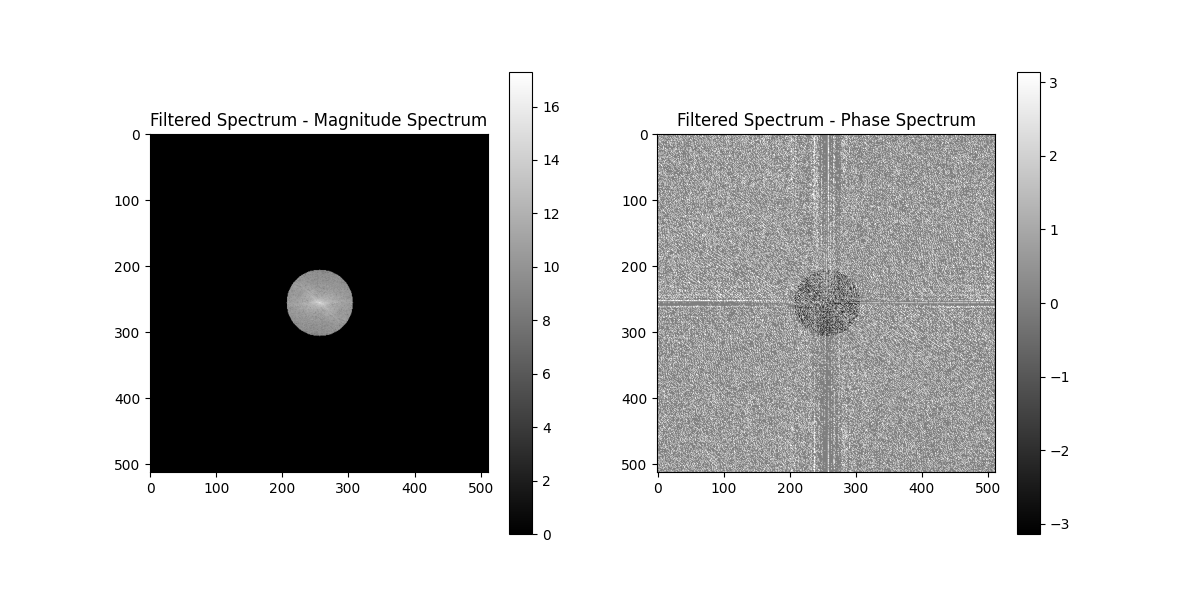
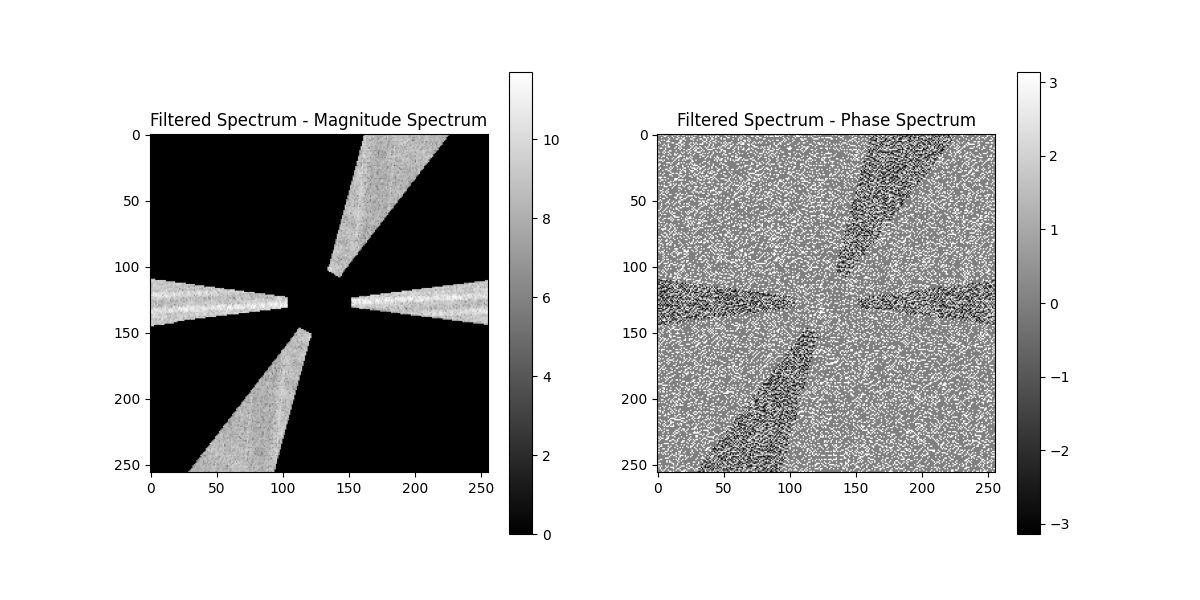
F5 working

diff --git a/testF5.py b/testF5.py
@@ -14,24 +14,43 @@ def apply_filter(freq_image, mask):
 def load_mask(mask_path):
     return cv2.imread(mask_path, cv2.IMREAD_GRAYSCALE) / 255.0
 
-def high_pass_edge_filter(image_path, mask_path, direction):
+def visualize_spectrum(dft, title="Spectrum"):
+    """Visualize the magnitude and phase spectrum of a Fourier transform."""
+    magnitude = np.log(np.abs(dft) + 1)  # Apply log for better visualization
+    phase = np.angle(dft)
+
+    plt.figure(figsize=(12, 6))
+    plt.subplot(1, 2, 1)
+    plt.title(f"{title} - Magnitude Spectrum")
+    plt.imshow(magnitude, cmap='gray')
+    plt.colorbar()
+
+    plt.subplot(1, 2, 2)
+    plt.title(f"{title} - Phase Spectrum")
+    plt.imshow(phase, cmap='gray')
+    plt.colorbar()
+    plt.savefig(f"{title}_spectrum.png")
+    plt.close()
+
+
+def high_pass_edge_filter(image_path, mask_path):
     image = cv2.imread(image_path, cv2.IMREAD_GRAYSCALE)
-    mask = load_mask(mask_path)  # Load a sample directional mask
+    mask = load_mask(mask_path) 
 
     freq_image = fft2(image)
     filtered_freq = apply_filter(freq_image, mask)
+    visualize_spectrum(filtered_freq, title="Filtered Spectrum")
     filtered_image = np.abs(ifft2(filtered_freq))
-
     plt.figure(figsize=(12, 6))
     plt.subplot(1, 2, 1)
     plt.title('Original Image')
     plt.imshow(image, cmap='gray')
 
     plt.subplot(1, 2, 2)
-    plt.title(f'Filtered Image (Direction: {direction})')
+    plt.title(f'Filtered Image')
     plt.imshow(filtered_image, cmap='gray')
     
     plt.savefig('output.png')
     plt.close()
 # Example usage
-high_pass_edge_filter('./images/task4/F5test1.png', './images/task4/F5mask1.png', 'horizontal')
+high_pass_edge_filter('./images/task4/F5test1.png', './images/task4/F5mask2.png')
